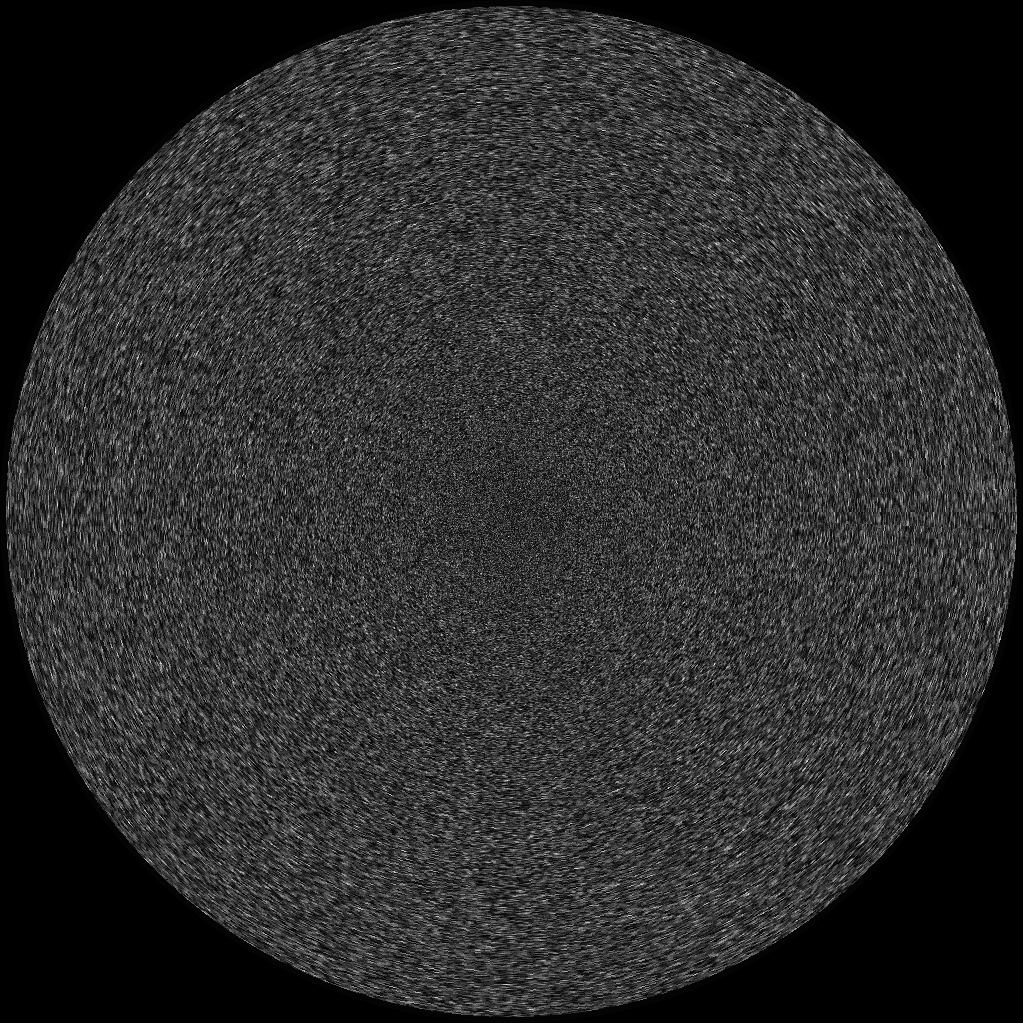
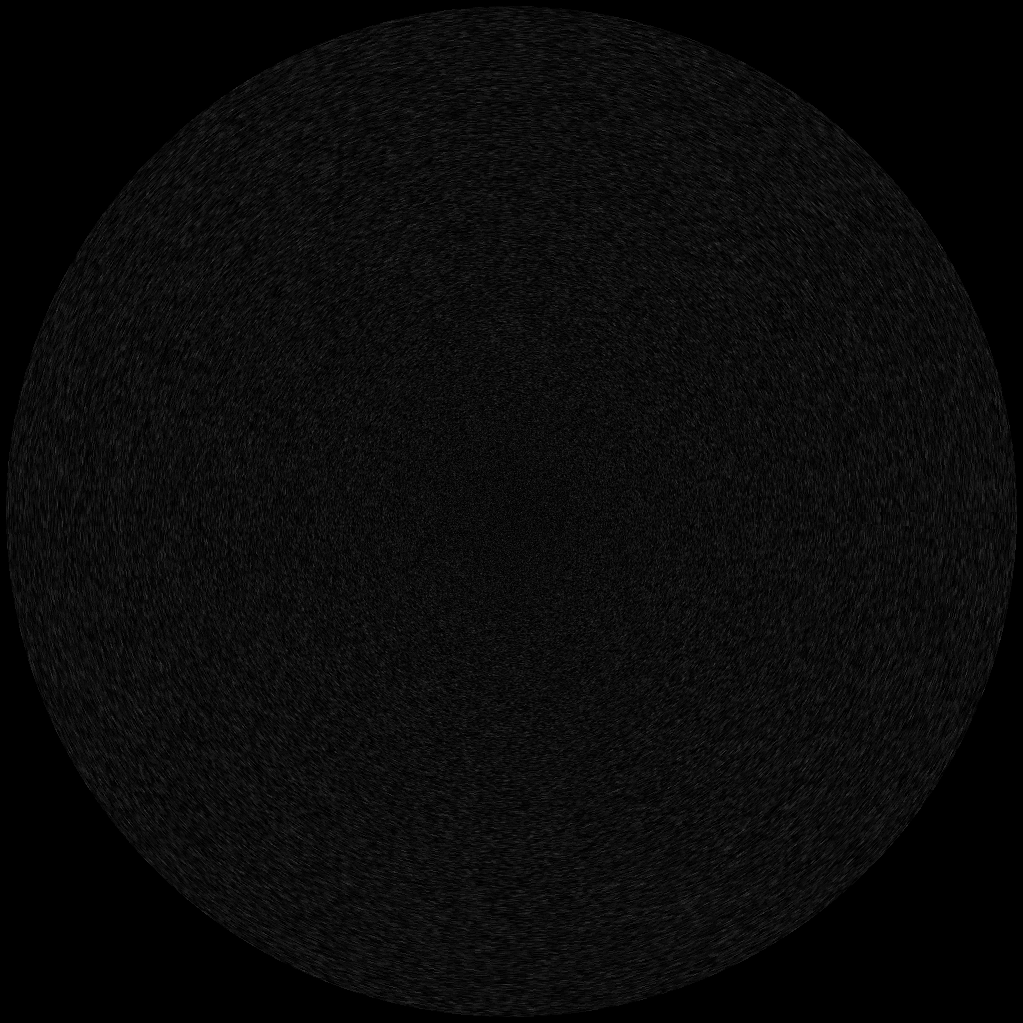
add vmin, vmax for radar image and small clean up

diff --git a/pyRLC.py b/pyRLC.py
@@ -231,18 +231,19 @@ class RLCfile:
         az = np.arctan2(ry, rx) + rotdeg*np.pi/180
         az = az + 2*np.pi*(az <= 0)
 
-        samp = np.round(coord_range) + 1
+        # Add 1 here to compare with MATLAB version
+        samp = (np.round(coord_range) + 1).astype(int)
         # Nscan, not NscanX
         scan = np.round(self.NscanX*az/(2.0*np.pi))
-        scan = scan + self.NscanX*(scan <= 0)
+        scan = (scan + self.NscanX*(scan <= 0)).astype(int)
 
         for x in range(imgsz):
             for y in range(imgsz):
                 # scan and sample coords
                 # - for given x, y pixel
                 # - change to 0-based index
-                sa = int(samp[y, x]) - 1
-                sc = int(scan[y, x]) - 1
+                sa = samp[y, x] - 1
+                sc = scan[y, x] - 1
 
                 if sa < self.Nsamp:
                     radar_image[y, x] = self.interpolated_scandata[sc, sa]
@@ -254,7 +255,7 @@ class RLCfile:
         if not output_file:
             # save to same dir as .rec file, just change to .png
             output_file = os.path.join(os.path.splitext(self.file)[0], '.png')
-        imsave(output_file, self.radar_image, cmap='gray')
+        imsave(output_file, self.radar_image, cmap='gray', vmin=0, vmax=255)
 
     def rec_to_png(self, output_file=None):
         """Reads .rec file and saves .png representation"""

diff --git a/tests/test_read.py b/tests/test_read.py
@@ -208,11 +208,8 @@ def test_radar_image():
     matlab_scandata = loadmat(MATLAB_FILE)['scandata']
     f.interpolated_scandata = matlab_scandata
     f.radar_image = f.project_to_circular_image()
-    print(f.radar_image.sum())
 
     # Save image
-    if os.path.exists(TEST_IMAGE):
-        os.remove(TEST_IMAGE)
     f.write_png(TEST_IMAGE)
 
     # Compare image with reference
